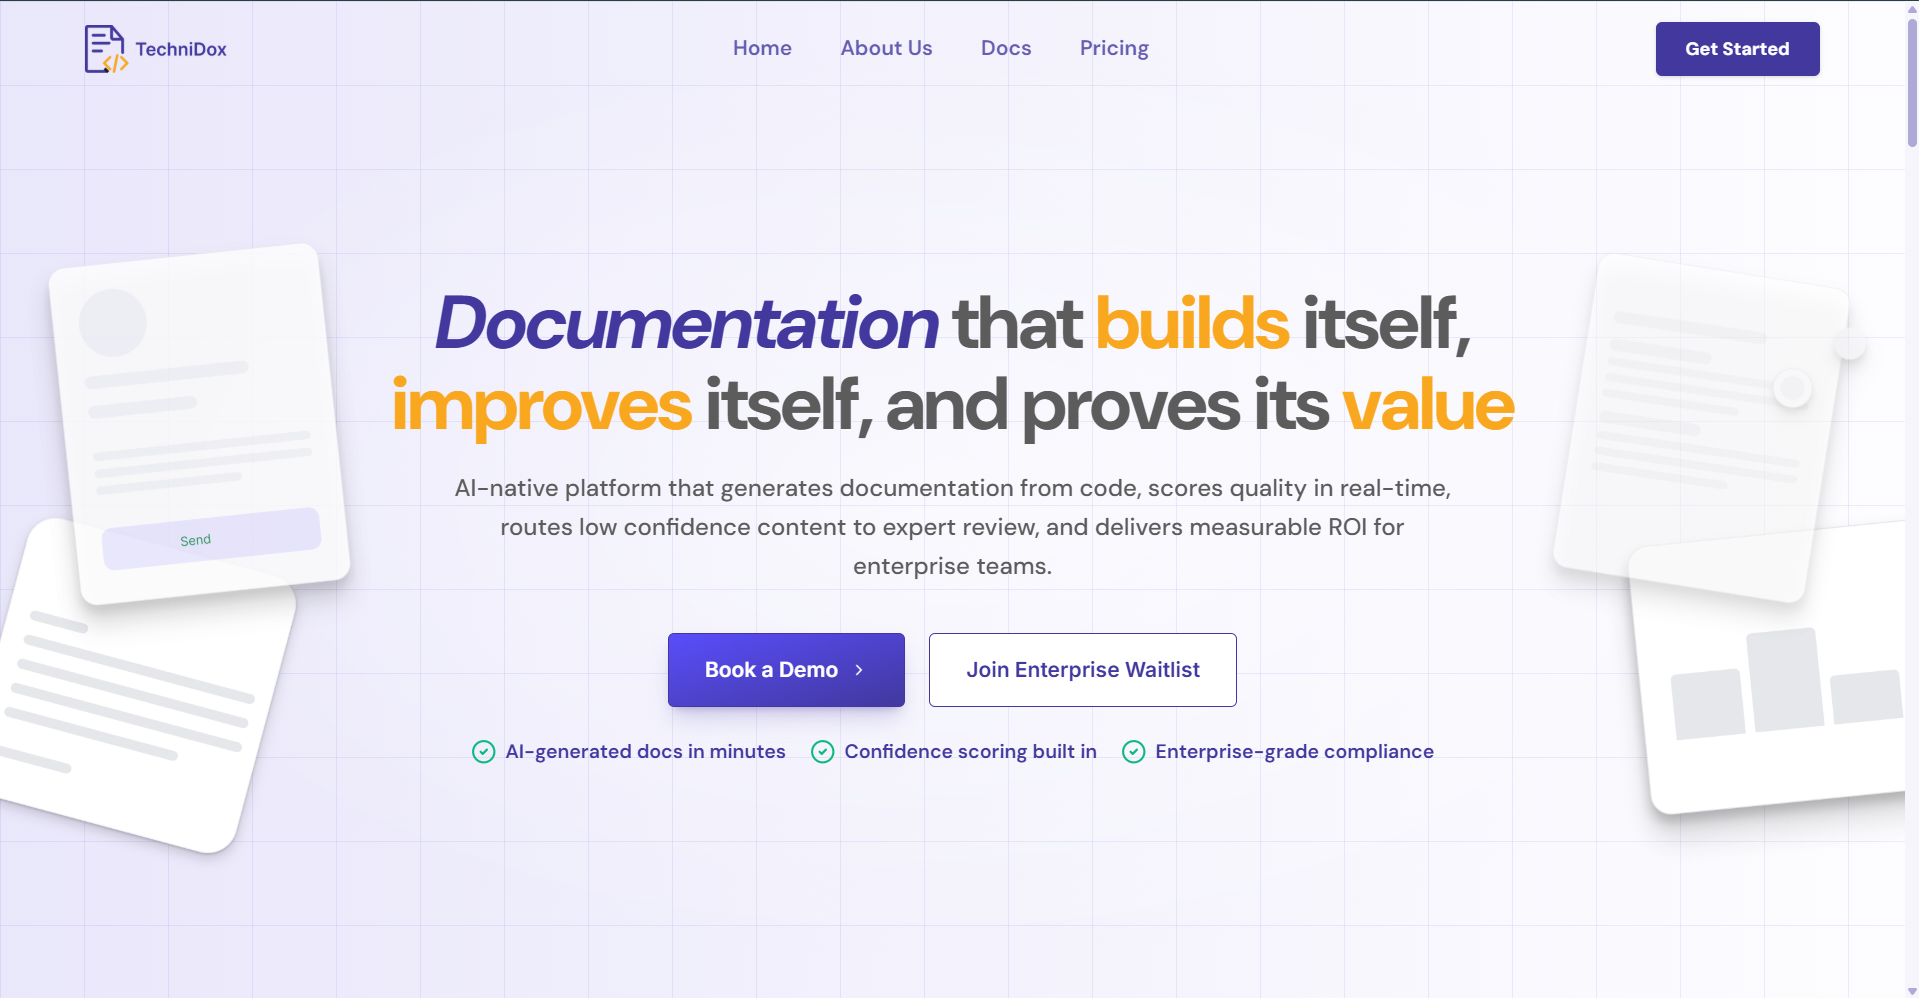
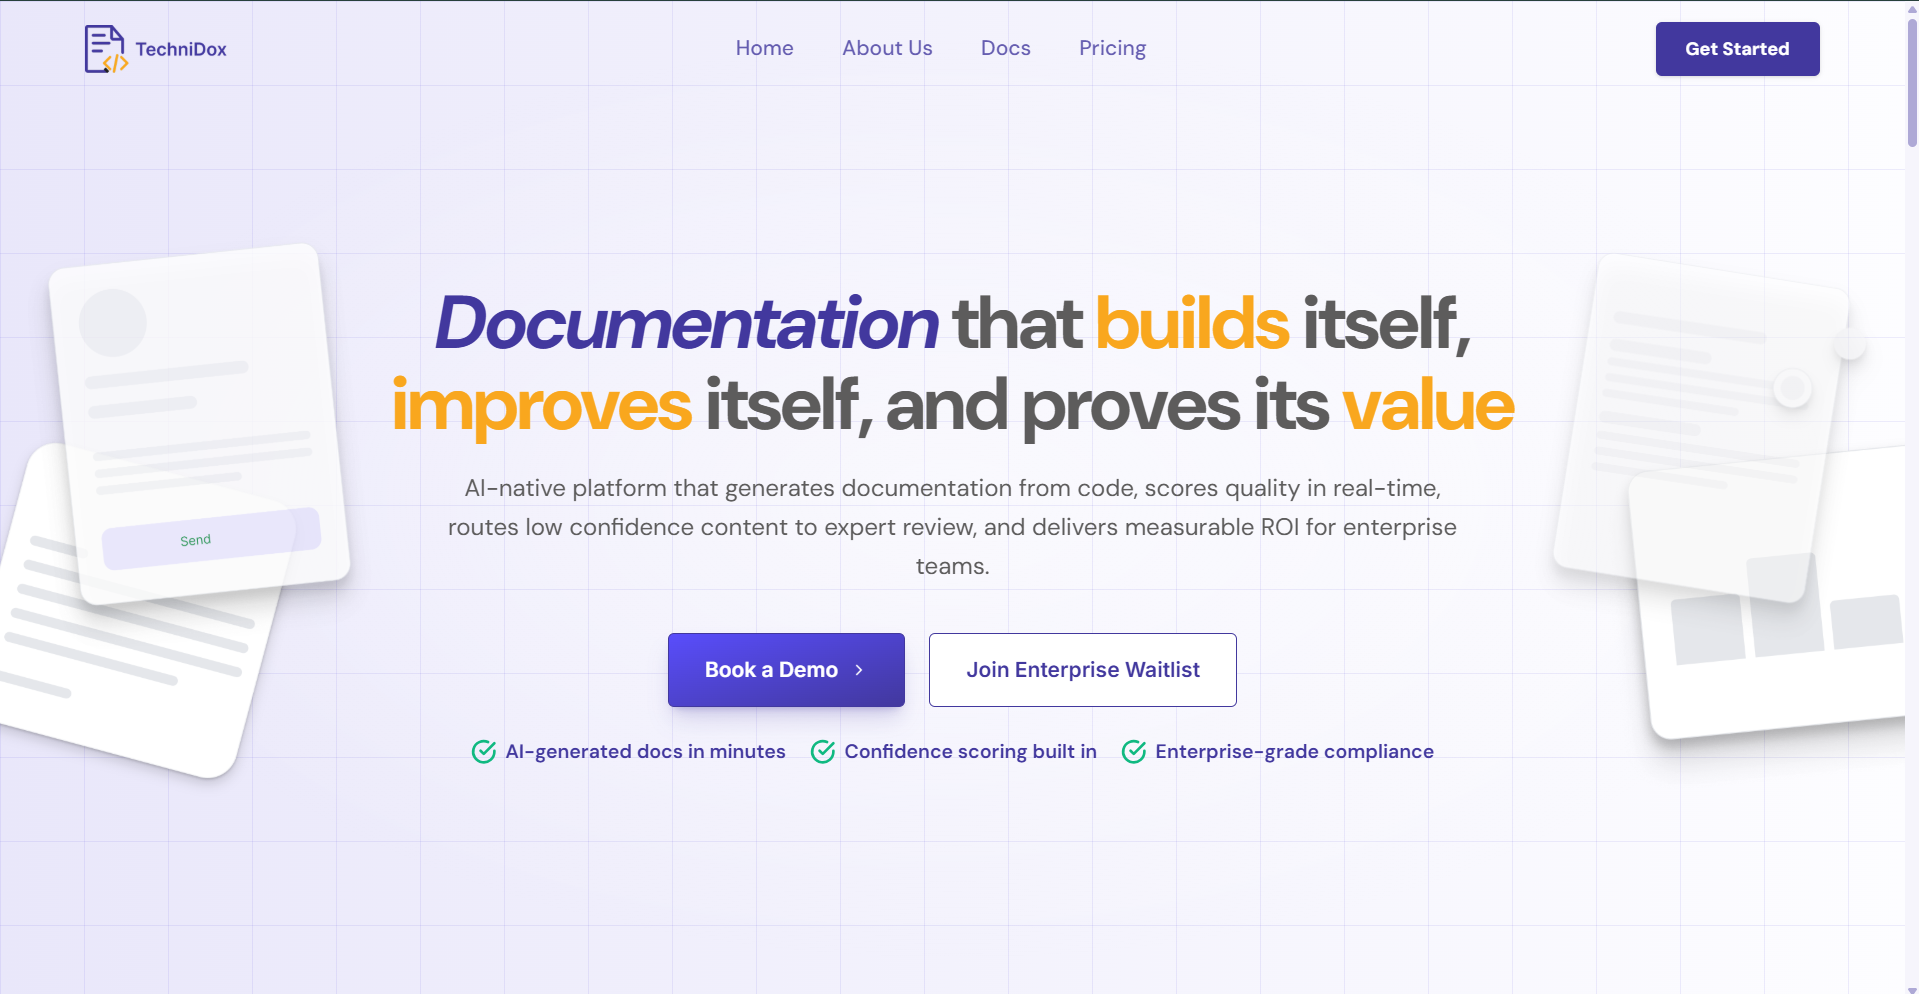
style: align layout with Figma specs and clean up codebase comments
Apply correct box-shadow styles across Team and Community sections. Restore full height layout and add proper drop-shadow depth properties to floating hero cards. Add clean, concise inline comments explaining Figma specifications in components. Update Pixelay desktop preview screenshot.

diff --git a/components/Hero.vue b/components/Hero.vue
@@ -4,11 +4,15 @@
     <!-- Radial glow over grid -->
     <div class="absolute inset-0 bg-[radial-gradient(ellipse_at_center,rgba(255,255,255,0.55)_0%,transparent_65%)] pointer-events-none z-0" />
 
-    <!-- Floating cards — xl only -->
-    <img src="/images/hero/hero_documentation_preview.png" alt="Documentation card" class="absolute hidden xl:block pointer-events-none z-20" style="width:230px;left:18px;top:160px;" loading="eager" fetchpriority="high" />
-    <img src="/images/hero/hero_interactive_guide.png"     alt="Guide preview"       class="absolute hidden xl:block pointer-events-none z-10" style="width:210px;height:190px;object-fit:cover;object-position:center;left:-8px;top:290px;" loading="eager" fetchpriority="high" />
-    <img src="/images/hero/hero_api_list_card.png"         alt="API card"            class="absolute hidden xl:block pointer-events-none z-20" style="width:230px;right:18px;top:160px;" loading="eager" fetchpriority="high" />
-    <img src="/images/hero/hero_roi_analytics_preview.png" alt="Analytics card"      class="absolute hidden xl:block pointer-events-none z-10" style="width:210px;height:190px;object-fit:cover;object-position:center;right:-8px;top:290px;" loading="eager" fetchpriority="high" />
+    <!-- Floating cards (xl viewport only) -->
+    <!-- Top-left preview card -->
+    <img src="/images/hero/hero_documentation_preview.png" alt="Documentation card" class="absolute hidden xl:block pointer-events-none z-20 drop-shadow-xl" style="width:230px;left:18px;top:160px;" loading="eager" fetchpriority="high" />
+    <!-- Bottom-left guide card -->
+    <img src="/images/hero/hero_interactive_guide.png"     alt="Guide preview"       class="absolute hidden xl:block pointer-events-none z-10 drop-shadow-lg"  style="width:210px;left:-8px;top:290px;" loading="eager" fetchpriority="high" />
+    <!-- Top-right API card -->
+    <img src="/images/hero/hero_api_list_card.png"         alt="API card"            class="absolute hidden xl:block pointer-events-none z-20 drop-shadow-xl" style="width:230px;right:18px;top:160px;" loading="eager" fetchpriority="high" />
+    <!-- Bottom-right ROI card -->
+    <img src="/images/hero/hero_roi_analytics_preview.png" alt="Analytics card"      class="absolute hidden xl:block pointer-events-none z-10 drop-shadow-lg"  style="width:210px;right:-8px;top:290px;" loading="eager" fetchpriority="high" />
 
     <!-- Center content -->
     <div class="relative z-30 w-full max-w-[820px] mx-auto px-5 sm:px-6 lg:px-8 text-center">

diff --git a/components/BuiltForEveryTeamSection.vue b/components/BuiltForEveryTeamSection.vue
@@ -25,10 +25,11 @@
 
       <!-- Use Cases Grid -->
       <div class="grid grid-cols-1 md:grid-cols-2 gap-6 lg:gap-8">
+        <!-- Cards with custom Figma shadow for subtle glow -->
         <div 
           v-for="card in cards" 
           :key="card.label" 
-          class="rounded-xl sm:rounded-2xl py-5 px-5 sm:py-7 sm:px-8 flex flex-col justify-between shadow-[0_8px_10px_-6px_rgba(0,0,0,0.1),_0_20px_25px_-5px_rgba(0,0,0,0.1)]"
+          class="rounded-xl sm:rounded-2xl py-5 px-5 sm:py-7 sm:px-8 flex flex-col justify-between shadow-[0_0_20px_10px_rgba(0,0,0,0.05)]"
           :class="card.isDark 
             ? 'bg-brand-primary text-white' 
             : 'bg-white border border-[#868585]'

diff --git a/components/CommunityDrivenSection.vue b/components/CommunityDrivenSection.vue
@@ -52,9 +52,10 @@
         </div>
 
         <!-- Right Column: Mock UI Container -->
-        <div class="border border-[#868585] rounded-xl sm:rounded-2xl bg-white p-4 sm:p-6 lg:p-8 shadow-[0_8px_10px_-6px_rgba(0,0,0,0.1),_0_20px_25px_-5px_rgba(0,0,0,0.1)]">
+        <div class="border border-[#868585] rounded-xl sm:rounded-2xl bg-white p-4 sm:p-6 lg:p-8 shadow-[0_0_20px_10px_rgba(0,0,0,0.05)]">
           <div class="space-y-4">
             
+            <!-- Step cards styled per Figma specs -->
             <div 
               v-for="step in steps" 
               :key="step.title" 
